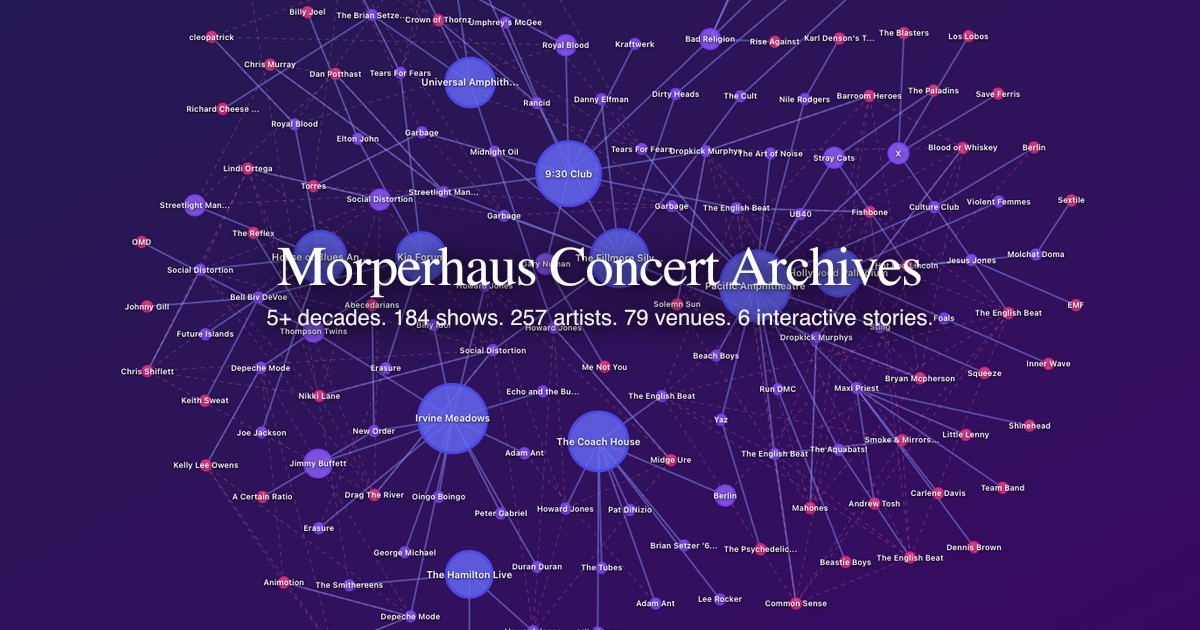
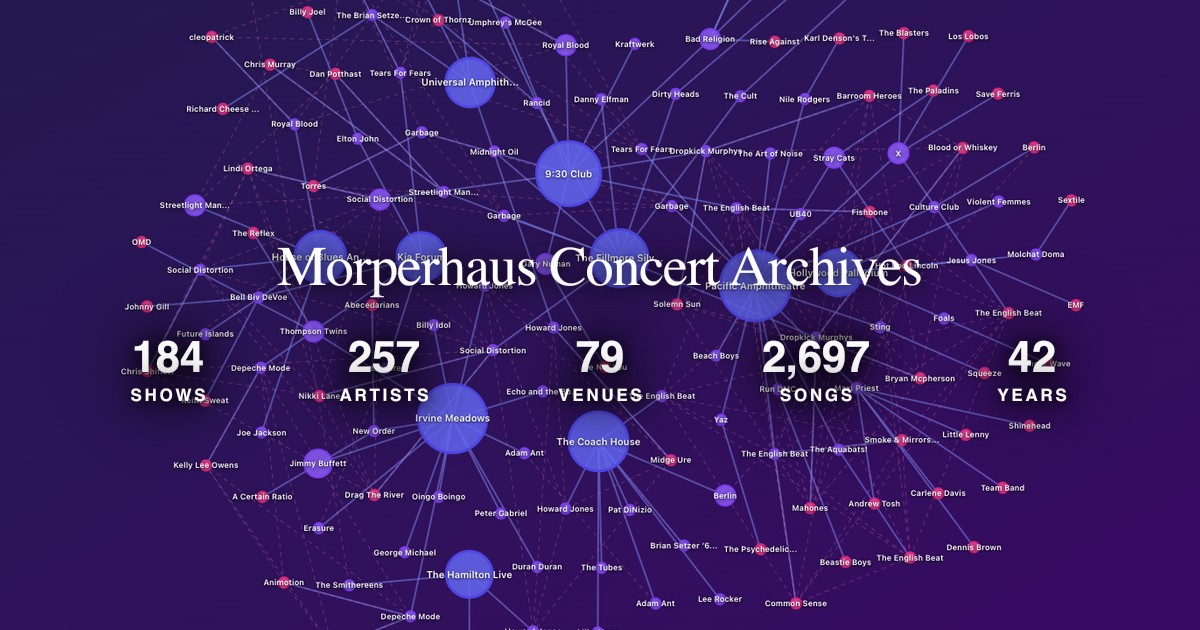
feat(seo): rebuild the OG card as a stat row (#286)
The card stated its numbers as one 22px run-on sentence:

  5+ decades. 184 shows. 257 artists. 79 venues. 6 interactive stories.

Social cards are read at roughly 500px wide in a feed, where a long thin
line is the first element to become illegible. That length limit -- not
any design constraint -- is what made the stat slots feel fixed and made
'add albums' look like it required dropping something.

Rendered as tiles instead, a large numeral survives the downscale and
hierarchy comes for free: number is the hero, label is support.

  184        257         79       2,697        42
 SHOWS     ARTISTS     VENUES    SONGS       YEARS

Every tile is EXPERIENTIAL -- something the archive owner did. '6 scenes'
was an app mechanic sitting in a row of lived facts, and '11,382 albums'
is MusicBrainz's catalogue rather than his listening. Both are dropped
from the card and both remain in og-stats.json for the meta tags; this
changes what the image renders, not what we store.

Songs are non-tape performances across every setlist we hold: 2,697.
Counted exactly, not '2,700+', even though setlist coverage is 118 of
184 shows. validate-docs.ts rejects that style of hedge on purpose --
'an approximate number is one nobody feels obliged to correct' -- and
2,697 is exactly what the archive holds, derived on every build so it
cannot go stale. The incompleteness belongs in llm.txt, where there is
room to say 'setlists for 118 of 184 shows', not on a stat tile.
[…]

Changed region(s): [[0.2158, 0.4825, 0.7708, 0.6937], [0.0925, 0.5127, 0.185, 0.6635], [0.8017, 0.5127, 0.8942, 0.6635]]

diff --git a/scripts/generate-og-simple.ts b/scripts/generate-og-simple.ts
@@ -37,6 +37,8 @@ interface OGStats {
   scenes: number
   artists: number
   venues: number
+  /** Non-tape song performances across every setlist we hold. */
+  songs: number
 }
 
 function loadCachedStats(): OGStats | null {
@@ -58,7 +60,8 @@ function statsMatch(a: OGStats, b: OGStats): boolean {
   return a.concerts === b.concerts &&
          a.scenes === b.scenes &&
          a.artists === b.artists &&
-         a.venues === b.venues
+         a.venues === b.venues &&
+         a.songs === b.songs
 }
 
 /**
@@ -108,9 +111,26 @@ async function main() {
   const venueSet = new Set(concertsData.concerts.map((c: any) => c.venue))
   const venues = venueSet.size
 
-  const stats: OGStats = { concerts, scenes, artists, venues }
+  // Songs actually watched being played. Tape is walk-on music, not a
+  // performance, and is excluded here exactly as it is everywhere else.
+  let songs = 0
+  try {
+    const setlistPath = path.join(__dirname, '..', 'public', 'data', 'setlists-cache.json')
+    const cache = JSON.parse(fs.readFileSync(setlistPath, 'utf-8'))
+    for (const entry of Object.values<any>(cache.entries ?? {})) {
+      for (const set of entry?.setlist?.sets?.set ?? []) {
+        for (const song of set?.song ?? []) {
+          if (song?.name && !song.tape) songs++
+        }
+      }
+    }
+  } catch {
+    // No setlist cache — the tile is dropped rather than rendered as zero.
+  }
 
-  console.log(`Current stats: ${stats.concerts} shows, ${stats.artists} artists, ${stats.venues} venues, ${stats.scenes} scenes`)
+  const stats: OGStats = { concerts, scenes, artists, venues, songs }
+
+  console.log(`Current stats: ${stats.concerts} shows, ${stats.artists} artists, ${stats.venues} venues, ${stats.songs} songs, ${stats.scenes} scenes`)
 
   // Check if stats have changed
   const cachedStats = loadCachedStats()
@@ -198,17 +218,58 @@ async function main() {
   await browser.close()
   console.log('✓ Screenshot captured')
 
-  // Calculate decades dynamically
+  // ── Stat row ───────────────────────────────────────────────────────────────
+  // Was a single 22px run-on sentence ("4+ decades. 184 shows. 257 artists…").
+  // Social cards are read at roughly 500px wide in a feed, where a long thin
+  // line is the first thing to become illegible; a large numeral survives the
+  // downscale. Tiles also give hierarchy for free — number is the hero, label
+  // is support.
+  //
+  // No scrim: the card's established language is heavy multi-layer text shadows
+  // over the artwork, and a dark band fought that. Labels carry themselves at
+  // 17px/600 with a three-layer halo instead.
+  //
+  // Every tile is EXPERIENTIAL: something the archive owner did. `scenes` is an
+  // app mechanic and `albums` is MusicBrainz's catalogue rather than his
+  // listening, so neither belongs on the card. Both remain in og-stats.json for
+  // the meta tags — this changes what the image renders, not what we store.
+  //
+  // Counts are exact, never "2,700+". `validate-docs.ts` rejects that style of
+  // hedge on purpose: "an approximate number is one nobody feels obliged to
+  // correct". These are derived on every build, so they cannot go stale.
   const currentYear = new Date().getFullYear()
   const startYear = 1984
-  const decades = Math.ceil((currentYear - startYear) / 10)
+  const years = currentYear - startYear
+
+  const fmt = (n: number) => n.toLocaleString('en-US')
+  const tiles: Array<{ value: string; label: string }> = [
+    { value: fmt(stats.concerts), label: 'SHOWS' },
+    { value: fmt(stats.artists), label: 'ARTISTS' },
+    { value: fmt(stats.venues), label: 'VENUES' },
+    ...(stats.songs > 0 ? [{ value: fmt(stats.songs), label: 'SONGS' }] : []),
+    { value: fmt(years), label: 'YEARS' },
+  ]
+
+  // Centred row, evenly spaced. Width adapts so dropping a tile still centres.
+  const TILE_WIDTH = 216
+  const rowWidth = tiles.length * TILE_WIDTH
+  const rowLeft = (OUTPUT_WIDTH - rowWidth) / 2
+  const centreOf = (i: number) => rowLeft + i * TILE_WIDTH + TILE_WIDTH / 2
+
+  const statTiles = tiles
+    .map(
+      (t, i) => `
+      <text x="${centreOf(i)}" y="372" text-anchor="middle" class="stat-value">${t.value}</text>
+      <text x="${centreOf(i)}" y="401" text-anchor="middle" class="stat-label">${t.label}</text>`
+    )
+    .join('')
 
   // Create text overlay
   const textOverlay = `
     <svg width="${OUTPUT_WIDTH}" height="${OUTPUT_HEIGHT}">
       <defs>
         <style>
-          @import url('https://fonts.googleapis.com/css2?family=Playfair+Display:wght@400;500&amp;family=Source+Sans+3:wght@400;500;600&amp;display=swap');
+          @import url('https://fonts.googleapis.com/css2?family=Playfair+Display:wght@400;500&amp;family=Source+Sans+3:wght@400;500;600;700&amp;display=swap');
           .title {
             font-family: 'Playfair Display', serif;
             font-size: 56px;
@@ -217,20 +278,27 @@ async function main() {
             letter-spacing: -0.02em;
             filter: drop-shadow(0 2px 8px rgba(0,0,0,0.8)) drop-shadow(0 0 24px rgba(0,0,0,0.6));
           }
-          .subtitle {
+          .stat-value {
             font-family: 'Source Sans 3', sans-serif;
-            font-size: 22px;
-            font-weight: 400;
-            fill: rgba(255,255,255,0.95);
-            letter-spacing: 0;
-            filter: drop-shadow(0 2px 6px rgba(0,0,0,0.9)) drop-shadow(0 0 16px rgba(0,0,0,0.7));
+            font-size: 44px;
+            font-weight: 600;
+            fill: white;
+            letter-spacing: -0.01em;
+            filter: drop-shadow(0 2px 8px rgba(0,0,0,0.95)) drop-shadow(0 0 22px rgba(0,0,0,0.85)) drop-shadow(0 0 36px rgba(0,0,0,0.6));
+          }
+          .stat-label {
+            font-family: 'Source Sans 3', sans-serif;
+            font-size: 17px;
+            font-weight: 600;
+            fill: white;
+            letter-spacing: 0.16em;
+            filter: drop-shadow(0 2px 6px rgba(0,0,0,0.95)) drop-shadow(0 0 16px rgba(0,0,0,0.85)) drop-shadow(0 0 28px rgba(0,0,0,0.6));
           }
         </style>
       </defs>
 
-      <!-- Vertically centered text (630/2 = 315, adjusted for text baseline) -->
       <text x="600" y="285" text-anchor="middle" class="title">Morperhaus Concert Archives</text>
-      <text x="600" y="325" text-anchor="middle" class="subtitle">${decades}+ decades. ${stats.concerts} shows. ${stats.artists} artists. ${stats.venues} venues. ${stats.scenes} interactive stories.</text>
+      ${statTiles}
     </svg>
   `
 
@@ -264,7 +332,7 @@ async function main() {
 
   console.log(`✓ OG image created: ${OUTPUT_PATH}`)
   console.log(`  Dimensions: ${OUTPUT_WIDTH}x${OUTPUT_HEIGHT}px`)
-  console.log(`  Subtitle: "${decades}+ decades. ${stats.concerts} shows. ${stats.artists} artists. ${stats.venues} venues. ${stats.scenes} interactive stories."`)
+  console.log(`  Stats row: ${tiles.map((t) => `${t.value} ${t.label}`).join(' · ')}`)
 }
 
 main().catch(console.error)
